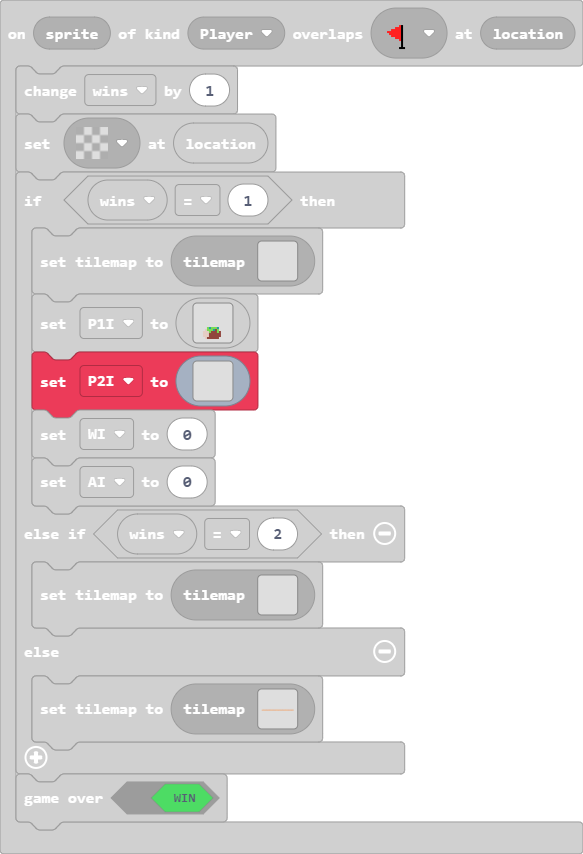
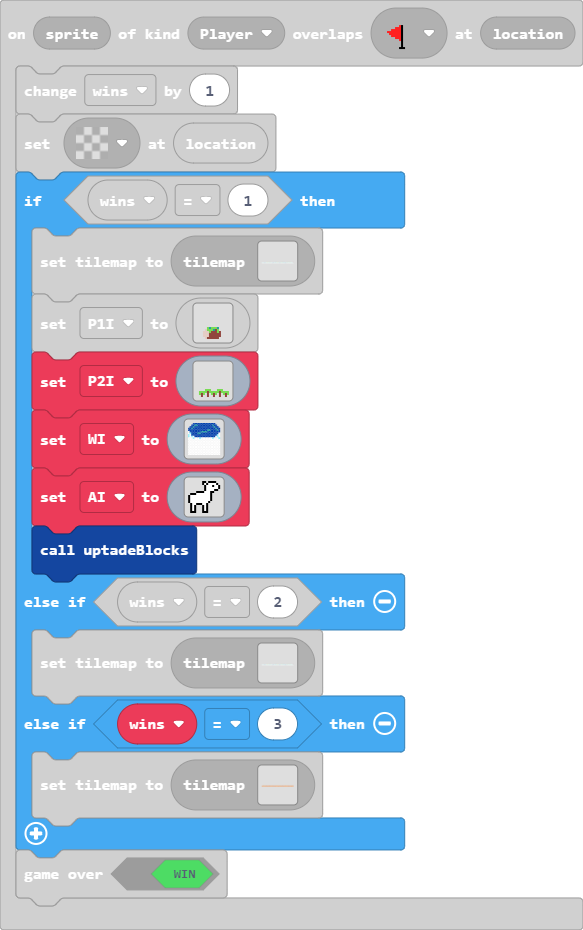
Update main.blocks, main.ts, tilemap.g.jres, tilemap.g.ts

Changed region(s): [[0.0, 0.0304, 1.0, 0.9742], [0.0, 0.0304, 0.0309, 0.0609]]

diff --git a/tilemap.g.ts b/tilemap.g.ts
@@ -16,6 +16,10 @@ namespace myTiles {
     export const tile6 = image.ofBuffer(hex``);
     //% fixedInstance jres blockIdentity=images._tile
     export const tile3 = image.ofBuffer(hex``);
+    //% fixedInstance jres blockIdentity=images._tile
+    export const tile4 = image.ofBuffer(hex``);
+    //% fixedInstance jres blockIdentity=images._tile
+    export const tile9 = image.ofBuffer(hex``);
 
     helpers._registerFactory("tilemap", function(name: string) {
         switch(helpers.stringTrim(name)) {
@@ -57,25 +61,6 @@ namespace myTiles {
 22222222222222222222222.22222222222222222222222222222222.22222222222222222222222222222222222222222.222222222222222222222222222222222222222222222222222
 ......................................................................................................................................................
 `, [myTiles.transparency16,myTiles.tile1,myTiles.tile2,myTiles.tile3,myTiles.tile5,myTiles.tile6,myTiles.tile7,myTiles.tile8], TileScale.Sixteen);
-            case "level3":
-            case "level3":return tiles.createTilemap(hex`1000100000000000000000000000000000000000000000000000000000000000000000000000000000000000000000000000000000000000000000000000000000000000000000000000000000000000000000000000000000000000000000000000000000000000000000000000000000000000000000000000000000000000000000000000000000000000000000000000000000000000000000000000000000000000000000000000000000000000000000000000000000000000000000000000000000000000000000000000000000000000000000000000000000000000000000000000000000000000000000000000000000000000000000000000000000000000`, img`
-. . . . . . . . . . . . . . . . 
-. . . . . . . . . . . . . . . . 
-. . . . . . . . . . . . . . . . 
-. . . . . . . . . . . . . . . . 
-. . . . . . . . . . . . . . . . 
-. . . . . . . . . . . . . . . . 
-. . . . . . . . . . . . . . . . 
-. . . . . . . . . . . . . . . . 
-. . . . . . . . . . . . . . . . 
-. . . . . . . . . . . . . . . . 
-. . . . . . . . . . . . . . . . 
-. . . . . . . . . . . . . . . . 
-. . . . . . . . . . . . . . . . 
-. . . . . . . . . . . . . . . . 
-. . . . . . . . . . . . . . . . 
-. . . . . . . . . . . . . . . . 
-`, [myTiles.transparency16], TileScale.Sixteen);
             case "level4":
             case "level4":return tiles.createTilemap(hex`1000100000000000000000000000000000000000000000000000000000000000000000000000000000000000000000000000000000000000000000000000000000000000000000000000000000000000000000000000000000000000000000000000000000000000000000000000000000000000000000000000000000000000000000000000000000000000000000000000000000000000000000000000000000000000000000000000000000000000000000000000000000000000000000000000000000000000000000000000000000000000000000000000000000000000000000000000000000000000000000000000000000000000000000000000000000000000`, img`
 . . . . . . . . . . . . . . . . 
@@ -114,6 +99,44 @@ namespace myTiles {
 . . . . . . . . . . . . . . . . 
 . . . . . . . . . . . . . . . . 
 `, [myTiles.transparency16], TileScale.Sixteen);
+            case "level3":
+            case "level3":return tiles.createTilemap(hex`6400100000000000000000000000000000000000000000000000000000000000000000000000000000000000000000000000000000000000000000000000000000000000000000000000000000000000000000000000000000000000000000000000000000000000000000000000000000000000000000000000000000000000000000000000000000000000000000000000000000000000000000000000000000000000000000000000000000000000000000000000000000000000000000000000000000000000000000000000000000000000000000000000000000000000000000000000000000000000000000000000000000000000000000000000000000000000000000000000000000000000000000000000000000000000000000000000000000000000000000000000000000000000000000000000000000000000000000000000000000000000000000000000000000000000000000000000000000000000000000000000000000000000000000000000000000000000000000000000000000000000000000000000000000000000000000000000000000000000000000000000000000000000000000000000000000000000000000000000000000000000000000000000000000000000000000000000000000000000000000000000000000000000000000000000000000000000000000000000000000000000000000000000000000000000000000000000000000000000000000000000000000000000000000000000000000000000000000000000000000000000000000000000000000000000000000000000000000000000000000000000000000000000000000000000000000000000000000000000000000000000000000000000000000000000000000000000000000000000000000000000000000000000000000000000000000000000000000000000000000000000000000000000000000000000000000000000000000000000000000000000000000000000000000000000000000000000000000000000000000000000000000000000000000000000000000000000000000000000000000000000000000000000000000000000000000000000000000000000000000000000000000000000000000000000000000000000000000000000000000000000000000000000000000000000000000000000000000000000000000000000000000000000000000000000000000000000000000000000000000000000000000000000000000000000000000000000000000000000000000000000000000000000000000000000000000000000000000000000000000000000000000000000000000000000000000000000000000000000000000000000000000000000000000000000000000000000000000000000000000000000000000000000000000000000000000000000000000000000000000000000000000000000000000000000000000000000000000000000000000000000000000000000000000000000000000000000000000000000000000000000000000000000000000000000000000000000000000000000000000000000000000000000000000000000000000000000000000000000000000000000000000000000000000000000000000000000000000000000000000000000000000000000000000000000000000000000000000000000000000000000000000000000000000000000000000000000000000000000000000000000000000000000000000000000000000000000000000000000000000000000000000000000000000000000000000000000000000000000000000000004000000000000000200000000000000000000000000000000000300000000000400000000000000000000000002000000000003000000000000000000000002000000000000000200000000000000000000010606060606060606060506060606060606060606060606060606060606060606060606050606060606060606060606060606060606060606050606060606060606060606060606060606050606060606060606060606060606060606060606060606060607070707070707070707070707070707070707070707070707070707070707070707070707070707070707070707070707070707070707070707070707070707070707070707070707070707070707070707070707070707070707070707070707070707`, img`
+....................................................................................................
+....................................................................................................
+....................................................................................................
+....................................................................................................
+....................................................................................................
+....................................................................................................
+....................................................................................................
+....................................................................................................
+....................................................................................................
+....................................................................................................
+....................................................................................................
+....................................................................................................
+....................................................................................................
+....................................................................................................
+222222222.2222222222222222222222222.22222222222222222222.22222222222222222.2222222222222222222222222
+....................................................................................................
+`, [myTiles.transparency16,myTiles.tile7,myTiles.tile1,myTiles.tile5,myTiles.tile6,myTiles.tile3,myTiles.tile4,myTiles.tile9], TileScale.Sixteen);
+            case "level6":
+            case "level6":return tiles.createTilemap(hex`1000100000000000000000000000000000000000000000000000000000000000000000000000000000000000000000000000000000000000000000000000000000000000000000000000000000000000000000000000000000000000000000000000000000000000000000000000000000000000000000000000000000000000000000000000000000000000000000000000000000000000000000000000000000000000000000000000000000000000000000000000000000000000000000000000000000000000000000000000000000000000000000000000000000000000000000000000000000000000000000000000000000000000000000000000000000000000`, img`
+. . . . . . . . . . . . . . . . 
+. . . . . . . . . . . . . . . . 
+. . . . . . . . . . . . . . . . 
+. . . . . . . . . . . . . . . . 
+. . . . . . . . . . . . . . . . 
+. . . . . . . . . . . . . . . . 
+. . . . . . . . . . . . . . . . 
+. . . . . . . . . . . . . . . . 
+. . . . . . . . . . . . . . . . 
+. . . . . . . . . . . . . . . . 
+. . . . . . . . . . . . . . . . 
+. . . . . . . . . . . . . . . . 
+. . . . . . . . . . . . . . . . 
+. . . . . . . . . . . . . . . . 
+. . . . . . . . . . . . . . . . 
+. . . . . . . . . . . . . . . . 
+`, [myTiles.transparency16], TileScale.Sixteen);
         }
         return null;
     })
@@ -135,6 +158,10 @@ namespace myTiles {
             case "tile6":return tile6;
             case "myTile1":
             case "tile3":return tile3;
+            case "myTile2":
+            case "tile4":return tile4;
+            case "myTile7":
+            case "tile9":return tile9;
         }
         return null;
     })

diff --git a/main.ts b/main.ts
@@ -79,16 +79,55 @@ scene.onOverlapTile(SpriteKind.Player, assets.tile`myTile5`, function (sprite, l
             . . . . . . . . . . . . . . . . 
             . . . . . . . . . . . . . . . . 
             . . . . . . . . . . . . . . . . 
-            . . . . . . . . . . . . . . . . 
-            . . . . . . . . . . . . . . . . 
-            . . . . . . . . . . . . . . . . 
-            . . . . . . . . . . . . . . . . 
+            . . . . 7 7 7 . . . 7 7 7 . . . 
+            . 7 7 7 7 e 7 7 7 7 7 e 7 7 7 7 
+            . 7 e 7 . e . 7 e 7 . e . 7 e 7 
+            . . e . . e . . e . . e . . e . 
             `
-        WI = 0
-        AI = 0
+        WI = img`
+            ...88888888888888...
+            ..8866888888888688..
+            .886888888888888688.
+            88688888888888888688
+            88888888888866888868
+            18888888666688888888
+            19888866888888888881
+            91888888888888888891
+            91918888888888888191
+            11191119111111191119
+            11111111111111111111
+            11111111111111111111
+            11111111111111111111
+            11111111111111111111
+            11111111111111111111
+            11111111111111111111
+            11111111111111111111
+            11111111111111111111
+            11111111111111111111
+            11111111111111111111
+            `
+        AI = img`
+            . . . . . . . f f . f f f f . . 
+            . . . . . . . f 1 f 1 1 1 1 f . 
+            . . . . . . . . f 1 1 1 f 1 1 f 
+            . . . . . . . . f 1 1 1 1 1 1 f 
+            . . . . . . . . f 1 1 1 1 f f . 
+            . . . . f f f f 1 1 1 f f . . . 
+            . f f f 1 1 1 1 1 1 1 f . . . . 
+            f 1 1 1 1 1 1 1 1 1 1 f . . . . 
+            f 1 1 1 1 1 1 1 1 1 1 f . . . . 
+            f 1 1 1 1 1 1 1 1 1 1 f . . . . 
+            f 1 1 1 1 1 1 1 1 1 f . . . . . 
+            . f 1 1 f f f 1 1 f . . . . . . 
+            . f 1 f . . . f 1 f . . . . . . 
+            . f 1 f . . . f 1 f . . . . . . 
+            . f 1 f . . . f 1 f . . . . . . 
+            . f f f . . . f f f . . . . . . 
+            `
+        uptadeBlocks()
     } else if (wins == 2) {
         tiles.setCurrentTilemap(tilemap`level3`)
-    } else {
+    } else if (wins == 3) {
         tiles.setCurrentTilemap(tilemap`level1`)
     }
     game.gameOver(true)
